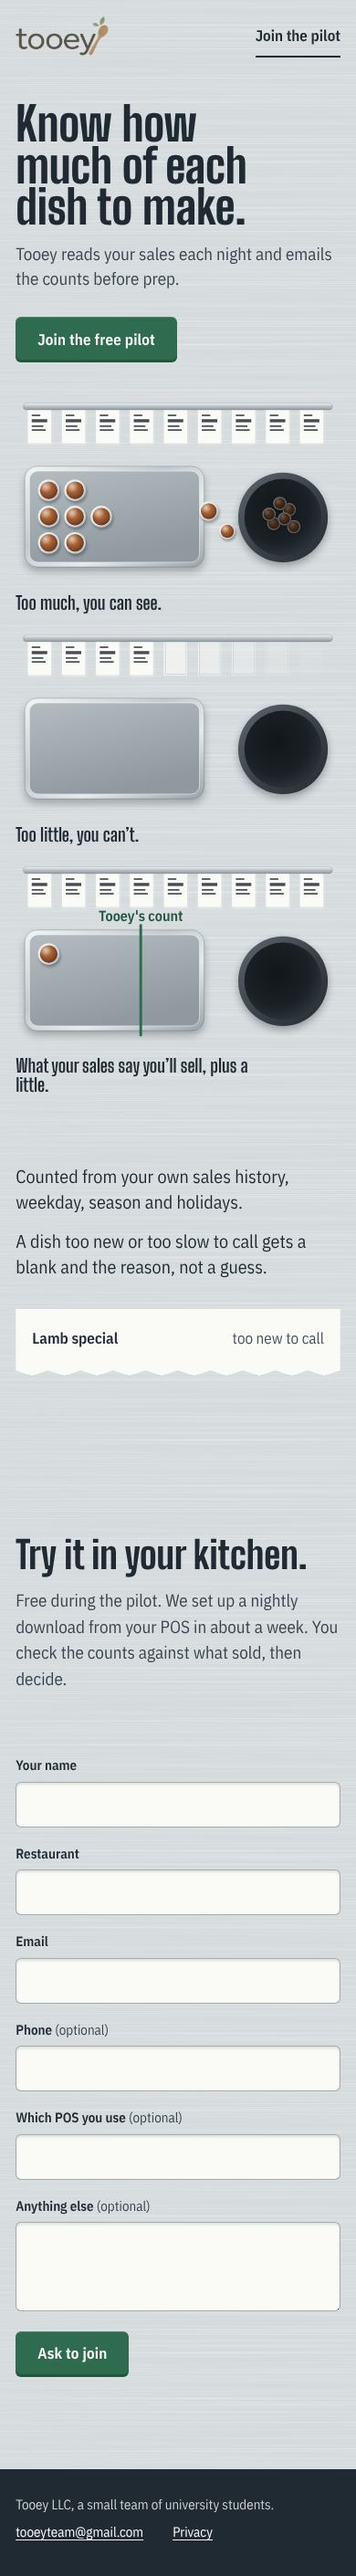
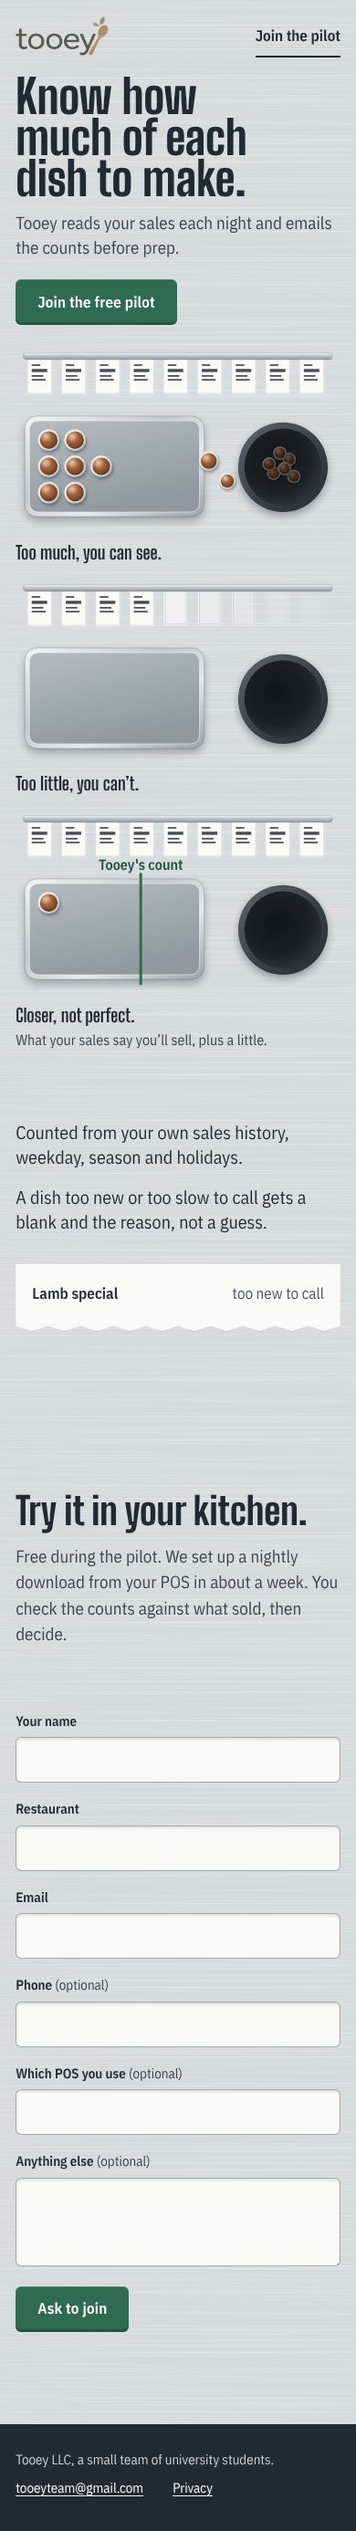
Round two, exploration 01: set the prep yourself, and Tooey's line is closer, not perfect

diff --git a/explorations/01-margin/index.html b/explorations/01-margin/index.html
@@ -38,7 +38,10 @@
             <input class="level" id="level" type="range" min="0" max="10" step="1" value="0">
           </div>
           <div class="desk">
-            <p class="call" id="call" aria-live="polite"></p>
+            <div class="calls" aria-live="polite">
+              <p class="call" id="call"></p>
+              <p class="call-sub" id="call-sub"></p>
+            </div>
             <div class="controls">
               <p class="prompt" id="prompt">Your call. Drag the line, then start service.</p>
               <button class="button button-steel" id="serve" type="button">Start service</button>
@@ -118,7 +121,8 @@
   </symbol>
   <clipPath id="sc-bagclip"><circle cx="346" cy="158" r="50"/></clipPath>
 </defs><circle cx="346" cy="163" r="58" fill="#18212A" opacity=".35" filter="url(#sc-soft)"/><circle cx="346" cy="158" r="58" fill="url(#sc-binrim)"/><circle cx="346" cy="158" r="50" fill="url(#sc-bag)"/><g clip-path="url(#sc-bagclip)"></g><rect x="12" y="98" width="232" height="130" rx="16" fill="#18212A" opacity=".3" filter="url(#sc-soft)"/><rect x="12" y="92" width="232" height="130" rx="16" fill="url(#sc-rim)" stroke="#1F2A33" stroke-opacity=".35" stroke-width=".7"/><rect x="18" y="98" width="220" height="118" rx="11" fill="url(#sc-well)" stroke="#fff" stroke-opacity=".6"/><use href="#sc-cup" x="27.0" y="107.0" width="32" height="32"/><line x1="162" y1="86" x2="162" y2="228" stroke="#2E6B4F" stroke-width="3.5" stroke-linecap="round"/><text x="162" y="80" text-anchor="middle" fill="#245740" font-family="Plex Condensed, IBM Plex Sans Condensed, sans-serif" font-weight="600" font-size="19">Tooey's count</text><g transform="translate(16 16)"><rect width="30" height="46" fill="#FAFAF7" filter="url(#sc-softer)" opacity=".35" transform="translate(1 2)"/><rect width="30" height="46" fill="#FAFAF7"/><rect x="5" y="9" width="11" height="2" fill="#262C38" opacity=".85"/><rect x="5" y="15" width="20" height="4" fill="#262C38" opacity=".85"/><rect x="5" y="23" width="15" height="2" fill="#262C38" opacity=".85"/><rect x="5" y="28" width="18" height="2" fill="#262C38" opacity=".85"/></g><g transform="translate(60 16)"><rect width="30" height="46" fill="#FAFAF7" filter="url(#sc-softer)" opacity=".35" transform="translate(1 2)"/><rect width="30" height="46" fill="#FAFAF7"/><rect x="5" y="9" width="11" height="2" fill="#262C38" opacity=".85"/><rect x="5" y="15" width="20" height="4" fill="#262C38" opacity=".85"/><rect x="5" y="23" width="15" height="2" fill="#262C38" opacity=".85"/><rect x="5" y="28" width="18" height="2" fill="#262C38" opacity=".85"/></g><g transform="translate(104 16)"><rect width="30" height="46" fill="#FAFAF7" filter="url(#sc-softer)" opacity=".35" transform="translate(1 2)"/><rect width="30" height="46" fill="#FAFAF7"/><rect x="5" y="9" width="11" height="2" fill="#262C38" opacity=".85"/><rect x="5" y="15" width="20" height="4" fill="#262C38" opacity=".85"/><rect x="5" y="23" width="15" height="2" fill="#262C38" opacity=".85"/><rect x="5" y="28" width="18" height="2" fill="#262C38" opacity=".85"/></g><g transform="translate(148 16)"><rect width="30" height="46" fill="#FAFAF7" filter="url(#sc-softer)" opacity=".35" transform="translate(1 2)"/><rect width="30" height="46" fill="#FAFAF7"/><rect x="5" y="9" width="11" height="2" fill="#262C38" opacity=".85"/><rect x="5" y="15" width="20" height="4" fill="#262C38" opacity=".85"/><rect x="5" y="23" width="15" height="2" fill="#262C38" opacity=".85"/><rect x="5" y="28" width="18" height="2" fill="#262C38" opacity=".85"/></g><g transform="translate(192 16)"><rect width="30" height="46" fill="#FAFAF7" filter="url(#sc-softer)" opacity=".35" transform="translate(1 2)"/><rect width="30" height="46" fill="#FAFAF7"/><rect x="5" y="9" width="11" height="2" fill="#262C38" opacity=".85"/><rect x="5" y="15" width="20" height="4" fill="#262C38" opacity=".85"/><rect x="5" y="23" width="15" height="2" fill="#262C38" opacity=".85"/><rect x="5" y="28" width="18" height="2" fill="#262C38" opacity=".85"/></g><g transform="translate(236 16)"><rect width="30" height="46" fill="#FAFAF7" filter="url(#sc-softer)" opacity=".35" transform="translate(1 2)"/><rect width="30" height="46" fill="#FAFAF7"/><rect x="5" y="9" width="11" height="2" fill="#262C38" opacity=".85"/><rect x="5" y="15" width="20" height="4" fill="#262C38" opacity=".85"/><rect x="5" y="23" width="15" height="2" fill="#262C38" opacity=".85"/><rect x="5" y="28" width="18" height="2" fill="#262C38" opacity=".85"/></g><g transform="translate(280 16)"><rect width="30" height="46" fill="#FAFAF7" filter="url(#sc-softer)" opacity=".35" transform="translate(1 2)"/><rect width="30" height="46" fill="#FAFAF7"/><rect x="5" y="9" width="11" height="2" fill="#262C38" opacity=".85"/><rect x="5" y="15" width="20" height="4" fill="#262C38" opacity=".85"/><rect x="5" y="23" width="15" height="2" fill="#262C38" opacity=".85"/><rect x="5" y="28" width="18" height="2" fill="#262C38" opacity=".85"/></g><g transform="translate(324 16)"><rect width="30" height="46" fill="#FAFAF7" filter="url(#sc-softer)" opacity=".35" transform="translate(1 2)"/><rect width="30" height="46" fill="#FAFAF7"/><rect x="5" y="9" width="11" height="2" fill="#262C38" opacity=".85"/><rect x="5" y="15" width="20" height="4" fill="#262C38" opacity=".85"/><rect x="5" y="23" width="15" height="2" fill="#262C38" opacity=".85"/><rect x="5" y="28" width="18" height="2" fill="#262C38" opacity=".85"/></g><g transform="translate(368 16)"><rect width="30" height="46" fill="#FAFAF7" filter="url(#sc-softer)" opacity=".35" transform="translate(1 2)"/><rect width="30" height="46" fill="#FAFAF7"/><rect x="5" y="9" width="11" height="2" fill="#262C38" opacity=".85"/><rect x="5" y="15" width="20" height="4" fill="#262C38" opacity=".85"/><rect x="5" y="23" width="15" height="2" fill="#262C38" opacity=".85"/><rect x="5" y="28" width="18" height="2" fill="#262C38" opacity=".85"/></g><rect x="10" y="10" width="400" height="9" rx="4.5" fill="url(#sc-bar)" stroke="#1F2A33" stroke-opacity=".3" stroke-width=".6"/></svg>
-            <p class="still-cap">What your sales say you’ll sell, plus a little.</p>
+            <p class="still-cap">Closer, not perfect.</p>
+            <p class="still-sub">What your sales say you’ll sell, plus a little.</p>
           </div>
 <!--TRIPTYCH:end-->
         </figure>

diff --git a/explorations/01-margin/scene.js b/explorations/01-margin/scene.js
@@ -20,6 +20,7 @@
   const serveBtn = document.getElementById('serve');
   const tooeyBtn = document.getElementById('tooey');
   const callEl = document.getElementById('call');
+  const subEl = document.getElementById('call-sub');
   const promptEl = document.getElementById('prompt');
   if (!ctx) return;
 
@@ -70,13 +71,13 @@
         label: 22,
       };
     }
-    const pan = { x: 60, y: 156, cell: 80, pad: 26, cols: 3, rows: 10 };
+    const pan = { x: 60, y: 136, cell: 80, pad: 26, cols: 3, rows: 10 };
     pan.w = pan.cols * pan.cell + pan.pad * 2; pan.h = pan.rows * pan.cell + pan.pad * 2;
     return {
-      wide: false, W: 600, H: 1040,
+      wide: false, W: 600, H: 1020,
       rail: { x0: 8, x1: 592, y: 26, tw: 54, th: 88 },
       pan,
-      bin: { x: 474, y: 382, r: 104 },
+      bin: { x: 474, y: 362, r: 104 },
       knob: { off: 32 },
       label: 30,
     };
@@ -504,7 +505,15 @@
   }
 
   /* ---------- service ---------- */
-  function randomDemand() { return 14 + Math.floor(Math.random() * 4); } // 14..17 cups, illustrative
+  /* Demand is the same for everyone: it wanders around a centre every run, whoever preps.
+     Tooey's line sits a little above that centre, so usually a few cups are left,
+     sometimes it's nearly exact, and now and then a late ticket prints blank even at the line.
+     Illustrative only: no accuracy has been measured at a live restaurant. */
+  function randomDemand() {
+    const u = 1 - Math.random(), v = Math.random();
+    const z = Math.sqrt(-2 * Math.log(u)) * Math.cos(2 * Math.PI * v);
+    return clamp(Math.round(16.4 + z * 1.7), 11, 22);
+  }
 
   function railSlot(k, D) {
     const r = L.rail;
@@ -625,11 +634,11 @@
 
     const missed = D - served;
     let line;
-    if (mode === 'tooey') line = 'What your sales say you’ll sell, plus a little.';
+    if (mode === 'tooey') line = 'Closer, not perfect.';
     else if (missed > 0) line = 'Too little, you can’t.';
     else if (leftover >= 5) line = 'Too much, you can see.';
     else line = 'Close. Now every dish, every day.';
-    setCall(line);
+    setCall(line, mode === 'tooey' ? 'What your sales say you’ll sell, plus a little.' : '');
 
     serving = false;
     pass.classList.remove('is-serving');
@@ -644,10 +653,13 @@
     if (mode === 'demo' && !touched) { promptEl.classList.add('is-nudged'); nudging = true; kick(); }
   }
 
-  function setCall(text) {
-    if (callEl.textContent === text) return;
-    callEl.classList.add('is-out');
-    window.setTimeout(() => { callEl.textContent = text; callEl.classList.remove('is-out'); }, text ? 160 : 0);
+  function setCall(text, sub = '') {
+    if (callEl.textContent === text && subEl.textContent === sub) return;
+    callEl.classList.add('is-out'); subEl.classList.add('is-out');
+    window.setTimeout(() => {
+      callEl.textContent = text; subEl.textContent = sub;
+      callEl.classList.remove('is-out'); subEl.classList.remove('is-out');
+    }, text ? 160 : 0);
   }
 
   /* ---------- input ---------- */
@@ -730,5 +742,5 @@
   io.observe(stage);
 
   // test hook: lets the screenshot script jump to known moments
-  window.__pass = { setLevel, runService: (m, d) => runService(m, d), get state() { return { level, serving, ran, tooeyShown }; }, takeOver };
+  window.__pass = { setLevel, runService: (m, d) => runService(m, d), randomDemand, get state() { return { level, serving, ran, tooeyShown }; }, takeOver };
 })();

diff --git a/explorations/01-margin/styles.css b/explorations/01-margin/styles.css
@@ -154,13 +154,19 @@ h1 {
   gap: 14px 24px;
   margin-top: clamp(10px, 1.6vh, 18px);
 }
+.calls { grid-area: call; }
 .call {
-  grid-area: call;
   font: 700 clamp(1.9rem, 3vw, 2.9rem)/1 var(--display);
   margin: 0; min-height: 1em;
   transition: opacity 0.16s ease, transform 0.16s ease;
 }
-.call.is-out { opacity: 0; transform: translateY(4px); }
+.call-sub {
+  margin: 0.35em 0 0; font-size: 1.0625rem; color: var(--ink-2);
+  transition: opacity 0.16s ease 0.08s;
+}
+.call-sub:empty { display: none; }
+.call.is-out, .call-sub.is-out { opacity: 0; }
+.call.is-out { transform: translateY(4px); }
 .controls {
   grid-area: controls;
   display: flex; align-items: center; flex-wrap: wrap; gap: 10px 14px;
@@ -174,6 +180,7 @@ h1 {
 .pass.is-live .still { display: none; }
 .still-panel svg { width: 100%; height: auto; }
 .still-cap { font: 700 clamp(1.25rem, 1.6vw, 1.6rem)/1.05 var(--display); margin: 10px 0 0; max-width: 14em; }
+.still-sub { margin: 6px 0 0; font-size: 1rem; line-height: 1.35; color: var(--ink-2); max-width: 20em; }
 
 /* ---------- how ---------- */
 .how {
@@ -267,6 +274,9 @@ h2 {
   .how, .pilot { grid-template-columns: minmax(0, 1fr); row-gap: 32px; }
 }
 @media (max-width: 720px) {
+  .hero { row-gap: 22px; padding-top: 20px; }
+  h1 { margin-bottom: 0.26em; }
+  .lead { margin-bottom: 1.1em; }
   .still { grid-template-columns: minmax(0, 1fr); }
   .still-panel { max-width: 460px; }
   .desk { grid-template-columns: minmax(0, 1fr); grid-template-areas: "call" "controls" "tag"; }

diff --git a/explorations/01-margin/NOTES.md b/explorations/01-margin/NOTES.md
@@ -6,11 +6,18 @@
 - Prep too little, and the tickets that come in after the pan is empty print blank. They hang for a moment as an embossed impression, then fade away, leaving the rail short.
 - What goes into the bin stays there for the rest of the visit. A lost sale leaves no trace.
 
-After the first call, Tooey's count is etched on the pan in green, and "Prep to Tooey's count" runs a service at that line. Demand is random on every run (14 to 17 cups), so no guess wins reliably.
+After the first call, Tooey's count is etched on the pan in green, and "Prep to Tooey's count" runs a service at that line. It ends on "Closer, not perfect." with the line beneath it: "What your sales say you'll sell, plus a little."
+
+**Honesty of the demo.** Demand is drawn fresh on every run from one bell-shaped spread (centre about 16.4 cups, clamped 11 to 22), the same spread whoever preps. Tooey's line sits a little above the centre (18 cups), so it is never guaranteed to win. Over 100,000 simulated runs:
+- About 53% leave two to four cups over.
+- About 37% are nearly exact, with zero or one cup left.
+- About 11% print a blank ticket or two even at Tooey's line.
+
+A guess can be just as close on a given run. The difference the demo shows is steadiness: the line is drawn from the restaurant's own sales, not from a hunch. The scene is labelled "Example service", the numbers are invented, and no accuracy has been measured at a live restaurant. The pilot copy says the owner checks the counts against what sold.
 
 Built on one 2D canvas (`scene.js`) with a small promise-based tween engine and hand-tuned easing: back-out on cups settling, quadratic acceleration for the slide and the fall, and a damped spring on the line. Cup and steel sprites are rendered offscreen at device resolution. No libraries.
 
-Under reduced motion and without JavaScript, a designed still takes its place: three overhead panels (too much, too little, Tooey's line), built by `_src/triptych.mjs` and written into `index.html`.
+Under reduced motion and without JavaScript, a designed still takes its place: three overhead panels (too much, too little, and Tooey's line with "Closer, not perfect."), built by `_src/triptych.mjs` and written into `index.html`.
 
 **Palette.**
 - Pass steel #D5DADC
@@ -22,12 +29,12 @@ Under reduced motion and without JavaScript, a designed still takes its place: t
 
 **Type.** Big Shoulders Display 800/700 for headlines and captions: stamped, industrial, condensed. IBM Plex Sans Condensed 400/600 for text and controls, in the spirit of equipment labels. Both are OFL and self-hosted.
 
-**Word count.** 134 visible words on the home page, counting every caption state the scene can show. A visitor sees about 125 at once. This excludes nav, form labels, the footer, and form status messages.
+**Word count.** 137 visible words on the home page, counting every caption state the scene can show. A visitor sees about 128 at once. This excludes nav, form labels, the footer, and form status messages.
 
 **Illustrative vs. factual.** The scene is an example service and is labelled "Example service". Cup counts, demand, and the cushion are made up, and there are no figures anywhere. "Lamb special / too new to call" is an example line. Everything else in the copy states facts from the brief.
 
 **Weaknesses.**
-- On phones the pan is tall and sits below the fold.
-- Tooey's line always lands where the random demand leaves 1 to 4 cups, so it looks reliable. It is labelled as an example, but it still flatters the product.
+- On phones the pan is tall. The top of it now shows on the first screen at 390×844, but most of it sits below.
+- One run cannot show that Tooey is steadier on average; a visitor only sees that across several runs.
 - The "how" section is conventional next to the hero.
 - The visitor only sees blank tickets if they prep low. The demo shows only the over-prepped side, though the prompt and the still cover both.
